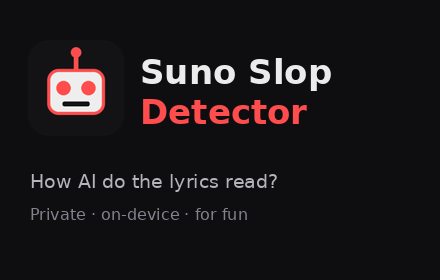
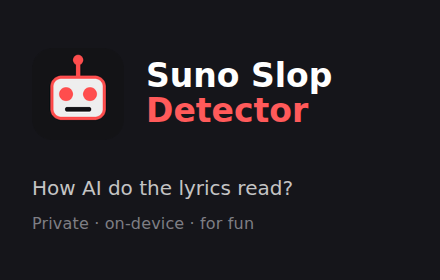
store: regenerate human screenshot + promo tile (current panel design)
- screenshot_2_human.png: rebuilt to the shipping craft-coach panel on a human song —
  the concrete "Dover's bar" demo now scores 0% AI ("Refreshingly original", green) with
  the real ✅ strengths (talks to a listener, names real places, things you can touch) and
  a gentle 🃏 tip. Replaces the old bar-chart version.
- promo_tile_440x280.png: re-rendered the branding tile (icon + name + tagline) from HTML.
- Added store/screenshot_2_human.html + store/promo_tile.html as reusable generators.

diff --git a/store/screenshot_2_human.html b/store/screenshot_2_human.html
@@ -1,0 +1,75 @@
+<!doctype html><html><head><meta charset="utf-8"><style>
+/* store screenshot generator: the CURRENT craft-coach panel on a HUMAN song (scores low).
+   Render: chromium --headless --screenshot=screenshot_2_human.png --window-size=1280,800 file://.../screenshot_2_human.html
+   Panel markup mirrors src/content.js; styles copied from src/overlay.css. Content = real engine output. */
+* { margin:0; padding:0; box-sizing:border-box; }
+html,body { width:1280px; height:800px; background:#131316;
+  font-family: ui-sans-serif, system-ui, -apple-system, "Segoe UI", Roboto, sans-serif; color:#eaeaea; overflow:hidden; }
+.title { position:absolute; left:40px; top:26px; font-size:27px; font-weight:800; color:#fff; }
+.sub { position:absolute; left:40px; top:84px; display:flex; align-items:center; gap:12px; color:#9a9a9a; font-size:18px; }
+.sub .dot { width:30px; height:30px; border-radius:50%; background:#2a2a30; }
+.song { position:absolute; left:60px; top:150px; width:580px; height:600px; border:1px solid rgba(255,255,255,.07);
+  border-radius:16px; background:rgba(255,255,255,.015); padding:30px 34px; }
+.song .meta { color:#8f8f8f; font-size:15px; margin-bottom:26px; }
+.song .meta b { color:#dcdcdc; font-weight:600; }
+.song .lyr { color:#c7c7c7; font-size:21px; line-height:2.0; }
+.right { position:absolute; right:80px; top:150px; width:440px; }
+.badge { display:inline-flex; align-items:center; gap:6px; padding:8px 14px; border:2px solid #5fd068;
+  border-radius:999px; background:rgba(18,18,22,.92); color:#fff; font-weight:700; font-size:16px;
+  box-shadow:0 4px 18px rgba(0,0,0,.45); float:right; }
+.badge .pct { color:#5fd068; }
+#slop-panel { clear:both; margin-top:12px; width:440px; padding:18px; border-radius:14px;
+  background:rgba(18,18,22,.97); color:#eaeaea; border:1px solid rgba(255,255,255,.08);
+  box-shadow:0 10px 40px rgba(0,0,0,.55); font-size:14px; }
+.slop-head { display:flex; justify-content:space-between; align-items:center; margin-bottom:10px; }
+.slop-head strong { font-size:15px; }
+#slop-close { background:none; border:none; color:#aaa; font-size:20px; line-height:1; }
+#slop-verdict { display:flex; align-items:baseline; gap:10px; margin-bottom:12px; }
+.slop-big { font-size:34px; font-weight:800; }
+.slop-verdict-text { color:#cfcfcf; font-style:italic; }
+.slop-attribution { display:block; margin-top:2px; font-size:12px; opacity:.75; font-style:italic; }
+.slop-components { margin:-4px 0 10px; color:#8f8f8f; font-size:12px; letter-spacing:.02em; }
+#slop-craft { margin-top:4px; }
+.slop-craft-h { font-size:11px; text-transform:uppercase; letter-spacing:.06em; color:#8a8a8a; margin:13px 0 4px; }
+.slop-cr { display:flex; gap:7px; align-items:flex-start; padding:7px 10px; margin:5px 0; border-radius:8px;
+  border-left:3px solid transparent; background:rgba(255,255,255,.04); }
+.slop-cr.good { border-left-color:#5fd068; }
+.slop-cr.joker { border-left-color:#b07bff; background:rgba(176,123,255,.09); }
+.slop-cr.bad { border-left-color:#ff9f1c; }
+.slop-cr-emoji { font-size:14px; line-height:1.3; }
+.slop-cr-body { flex:1; min-width:0; }
+.slop-cr-label { color:#eaeaea; font-size:13.5px; font-weight:600; }
+.slop-cr.joker .slop-cr-label { color:#d9c4ff; }
+.slop-foot { margin-top:14px; padding-top:10px; border-top:1px solid rgba(255,255,255,.07); color:#777; font-size:12px; }
+</style></head><body>
+  <div class="title">Real-songwriting style scores low — it's fair, not a witch hunt</div>
+  <div class="sub"><div class="dot"></div>suno.com / song</div>
+  <div class="song">
+    <div class="meta"><b>“Demo Song”</b> &nbsp;·&nbsp; synthetic lyrics (not a real song)</div>
+    <div class="lyr">Meet me down at Dover's bar, the one on Lincoln street<br>bring your brother and his truck, the tires for my Jeep<br>We'll drink the cheap stuff, close the place at two<br>same as 1992, same as me and you</div>
+  </div>
+  <div class="right">
+    <div class="badge"><span>🤖</span><span class="pct">0%</span></div>
+    <div id="slop-panel">
+      <div class="slop-head"><strong>Suno Slop Detector</strong><button id="slop-close">×</button></div>
+      <div id="slop-verdict">
+        <span class="slop-big" style="color:#5fd068">0% AI</span>
+        <span class="slop-verdict-text">Refreshingly original</span>
+        <span class="slop-attribution">likely human-written</span>
+      </div>
+      <div class="slop-components">model confidence this is AI: 0%</div>
+      <div id="slop-craft">
+        <div class="slop-craft-h">✅ Keep this</div>
+        <div class="slop-cr good"><span class="slop-cr-emoji">✅</span><div class="slop-cr-body"><div class="slop-cr-label">talks to a real listener</div></div></div>
+        <div class="slop-cr good"><span class="slop-cr-emoji">✅</span><div class="slop-cr-body"><div class="slop-cr-label">names real people / places / brands</div></div></div>
+        <div class="slop-cr good"><span class="slop-cr-emoji">✅</span><div class="slop-cr-body"><div class="slop-cr-label">things you can see / touch</div></div></div>
+        <div class="slop-cr good"><span class="slop-cr-emoji">✅</span><div class="slop-cr-body"><div class="slop-cr-label">repeated vowel sounds</div></div></div>
+        <div class="slop-craft-h">🃏 Try this</div>
+        <div class="slop-cr joker"><span class="slop-cr-emoji">🃏</span><div class="slop-cr-body"><div class="slop-cr-label">“same” shows up twice — swap one for a detail only your narrator would notice (an object, a price, a name).</div></div></div>
+        <div class="slop-craft-h">⚠ Work on</div>
+        <div class="slop-cr bad"><span class="slop-cr-emoji">⚠</span><div class="slop-cr-body"><div class="slop-cr-label">a touch of filler in the line padding</div></div></div>
+      </div>
+      <div class="slop-foot">Reads only the lyrics box · model confidence, not proof</div>
+    </div>
+  </div>
+</body></html>

diff --git a/store/promo_tile.html b/store/promo_tile.html
@@ -1,0 +1,21 @@
+<!doctype html><html><head><meta charset="utf-8"><style>
+/* store promo tile generator (440x280). Render:
+   chromium --headless --screenshot=promo_tile_440x280.png --window-size=440,280 file://.../promo_tile.html */
+* { margin:0; padding:0; box-sizing:border-box; }
+html,body { width:440px; height:280px; background:#15151a; overflow:hidden;
+  font-family: ui-sans-serif, system-ui, -apple-system, "Segoe UI", Roboto, sans-serif; }
+.row { position:absolute; left:32px; top:48px; display:flex; align-items:center; gap:22px; }
+.row img { width:92px; height:92px; border-radius:20px; }
+.name { line-height:1.05; }
+.name .a { font-size:33px; font-weight:800; color:#fff; }
+.name .b { font-size:33px; font-weight:800; color:#ff5a5a; }
+.tag { position:absolute; left:32px; top:176px; color:#c4c4c4; font-size:20px; }
+.meta { position:absolute; left:32px; top:214px; color:#7e7e84; font-size:16px; letter-spacing:.01em; }
+</style></head><body>
+  <div class="row">
+    <img src="../icons/icon128.png" alt="">
+    <div class="name"><div class="a">Suno Slop</div><div class="b">Detector</div></div>
+  </div>
+  <div class="tag">How AI do the lyrics read?</div>
+  <div class="meta">Private · on-device · for fun</div>
+</body></html>
